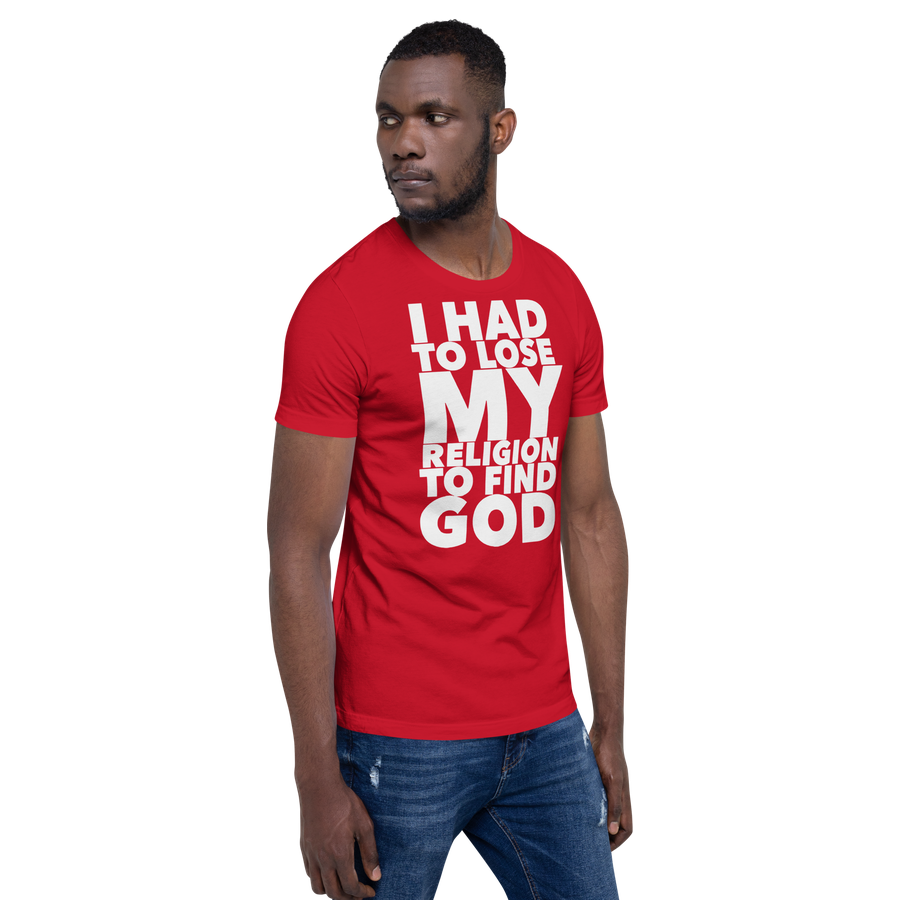
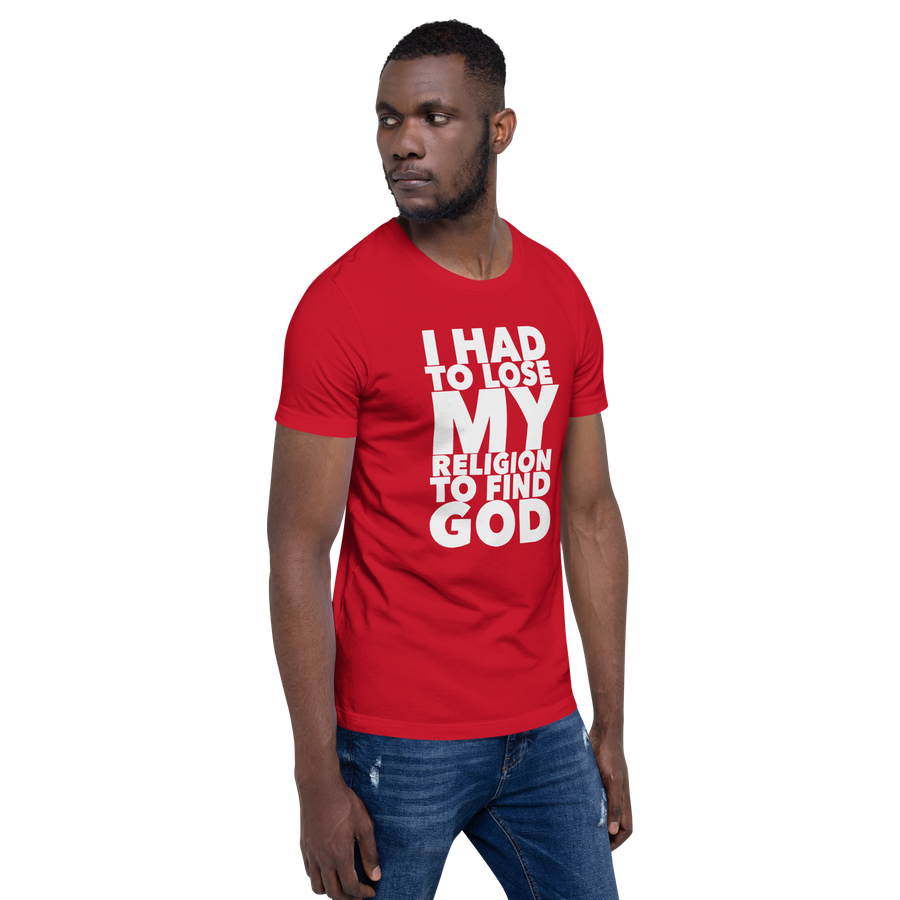
Red tee: lower the print below the collar
Claude-Session: https://claude.ai/code/session_01DJGUprk7X9fiRTMqbdsdPb

Changed region(s): [[0.4356, 0.3111, 0.6222, 0.6222]]

diff --git a/shop.html b/shop.html
@@ -103,7 +103,7 @@
             <div class="actions"><label class="sr-only" for="hoodie-size">Size</label><select class="size-select" id="hoodie-size" data-buy="hoodie-buy"><option>S</option><option selected>M</option><option>L</option><option>XL</option><option>2XL</option></select><a href="https://shawnlewisbooks.gumroad.com/l/hoodie?variant=M" class="btn small" id="hoodie-buy">BUY</a></div>
           </div>
           <div class="tile">
-            <div class="media gallery"><img class="model-img" src="images/red-tee-model-front.png?v=202611041400" alt="Model wearing the red T-shirt with the print: I had to lose my religion to find God."><div class="thumbs"><button type="button" class="thumb active" data-src="images/red-tee-model-front.png?v=202611041400" aria-label="Front view"><img src="images/red-tee-model-front.png?v=202611041400" alt=""></button><button type="button" class="thumb" data-src="images/red-tee-model-side.png?v=202611041400" aria-label="Side view"><img src="images/red-tee-model-side.png?v=202611041400" alt=""></button></div></div>
+            <div class="media gallery"><img class="model-img" src="images/red-tee-model-front.png?v=202611051400" alt="Model wearing the red T-shirt with the print: I had to lose my religion to find God."><div class="thumbs"><button type="button" class="thumb active" data-src="images/red-tee-model-front.png?v=202611051400" aria-label="Front view"><img src="images/red-tee-model-front.png?v=202611051400" alt=""></button><button type="button" class="thumb" data-src="images/red-tee-model-side.png?v=202611051400" aria-label="Side view"><img src="images/red-tee-model-side.png?v=202611051400" alt=""></button></div></div>
             <p class="kicker">Apparel</p>
             <h3>Red T-Shirt</h3>
             <p class="desc">Free shipping within the US.</p>
